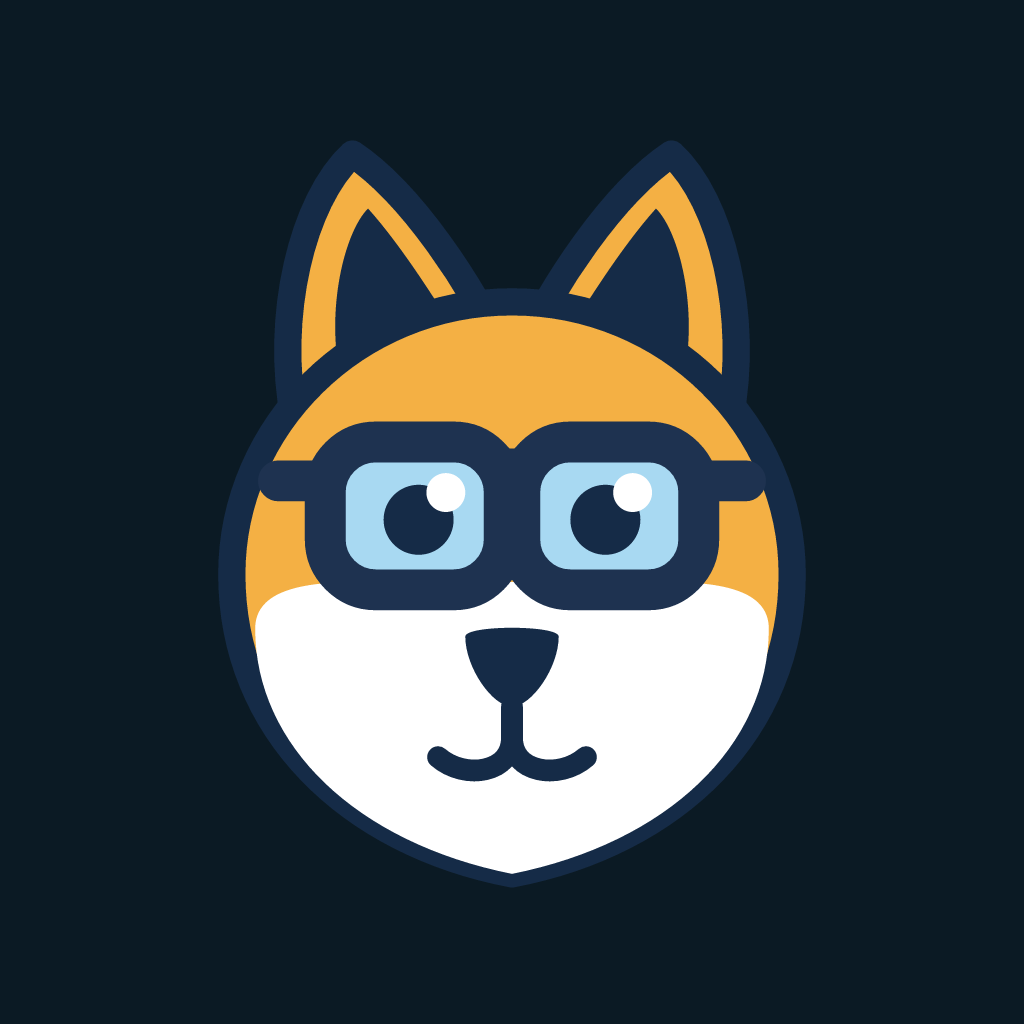
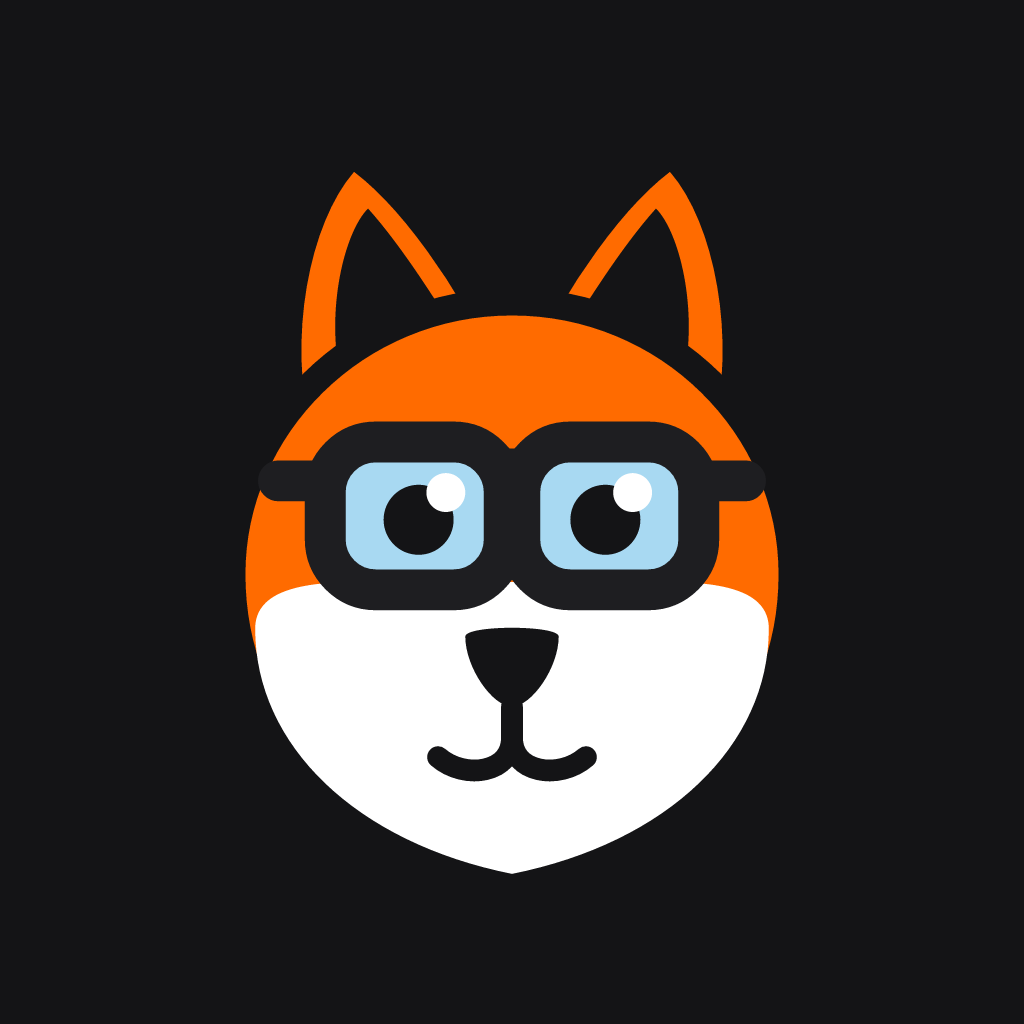
feat(brand): Ignition husky, orange fur on charcoal
Owner chose option B of three recolor mockups: fur #FF6B00 (the dark
theme's --gf-ember), charcoal linework #141416 and goggle frame
#1E1E21, lenses unchanged, so no navy survives in the mark.

brand.js stays the single definition. Two keys are renamed so the names
stop lying: BRAND.navy is now BRAND.ground (charcoal), and the wordmark
glyph tone `gold` is now `accent`. FIT takes the fur's orange on dark and
the text-safe #B13A09 on light; Logo.jsx reads var(--gf-ember-text).

generate-brand-assets.mjs rebuilt brand/, the favicons, PWA icons, the
OG image (red and orange glow in place of gold) and resources/.

Changed region(s): [[0.1875, 0.125, 0.8125, 0.8438], [0.4375, 0.8438, 0.5625, 0.875]]

diff --git a/src/lib/brand.js b/src/lib/brand.js
@@ -10,16 +10,21 @@
 // `dangerouslySetInnerHTML`. The phase 7 security pass recorded zero such
 // sinks in this codebase and that property is worth more than the brevity.
 
+// Ignition husky (owner choice "B", 2026-09-24): orange fur and charcoal
+// linework, so no navy survives in the mark. Fur is deliberately the same
+// value as the dark theme's --gf-ember; ground and surface are the charcoal
+// --gf-bg-primary / --gf-bg-surface. The lens stays sky blue so the pupils
+// read against it.
 export const BRAND = {
-  fur: '#F4B044',      // golden fur — deliberately the same value as --gf-gold
-  line: '#152B47',     // outline, ear interiors, nose, pupils
+  fur: '#FF6B00',      // Ignition orange, = --gf-ember (dark)
+  line: '#141416',     // outline, ear interiors, nose, pupils
   muzzle: '#FFFFFF',
   lens: '#A8D9F2',     // goggle glass
-  frame: '#1E3250',    // goggle frame, deep navy
-  navy: '#0B1A24',     // --gf-bg-primary, the app icon ground
-  surface: '#112532',  // --gf-bg-surface
-  gold: '#F4B044',     // --gf-gold
-  text: '#F2F5F7',     // --gf-text-primary
+  frame: '#1E1E21',    // goggle frame, charcoal
+  ground: '#141416',   // --gf-bg-primary, the app icon and splash ground
+  surface: '#1E1E21',  // --gf-bg-surface
+  gold: '#F4B044',     // --gf-gold, reward color (no longer used by the mark)
+  text: '#F5F5F4',     // --gf-text-primary
 };
 
 // Drawn on a 200x200 grid. Full detail: catchlights in the eyes, a two-stroke
@@ -112,17 +117,17 @@ export const WORDMARK_GLYPHS = [
     ],
   },
   {
-    x: 400, tone: 'gold', shapes: [
+    x: 400, tone: 'accent', shapes: [
       { t: 'path', d: 'M0,0 L65,0 L74,9 L74,25 L27,25 L27,40 L65,40 L65,65 L27,65 L27,100 L0,100 Z' },
     ],
   },
   {
-    x: 484, tone: 'gold', shapes: [
+    x: 484, tone: 'accent', shapes: [
       { t: 'path', d: 'M0,0 L27,0 L27,100 L0,100 Z' },
     ],
   },
   {
-    x: 521, tone: 'gold', shapes: [
+    x: 521, tone: 'accent', shapes: [
       { t: 'path', d: 'M9,0 L71,0 L80,9 L80,25 L53,25 L53,100 L27,100 L27,25 L0,25 L0,9 Z' },
     ],
   },
@@ -131,8 +136,10 @@ export const WORDMARK_GLYPHS = [
 // Gold as *text* fails on a light ground: #F4B044 measures 1.9:1 on white.
 // Same split the design system already applies to --gf-gold / --gf-gold-text.
 export const WORDMARK_TONES = {
-  dark: { text: BRAND.text, gold: BRAND.gold },
-  light: { text: BRAND.navy, gold: '#8A5A06' },
+  // FIT takes the accent: the fur's orange on dark, and the text-safe
+  // --gf-ember-text on light (the raw orange is ~2.9:1 on white).
+  dark: { text: BRAND.text, accent: BRAND.fur },
+  light: { text: BRAND.ground, accent: '#B13A09' },
 };
 
 // Serialise a shape set to SVG markup. Used by the asset generator and by the

diff --git a/src/components/brand/Logo.jsx b/src/components/brand/Logo.jsx
@@ -62,16 +62,16 @@ export function Mascot({ size = 64, detail, title, className = '', ...rest }) {
  * to a system stack mid-load, and it is identical on every platform.
  *
  * `tone` defaults to `auto`, which paints from the palette rather than from
- * literal hex: GAME takes `currentColor` and FIT takes `--gf-gold-text`. That
+ * literal hex: GAME takes `currentColor` and FIT takes `--gf-ember-text`. That
  * matters because the app toggles `.dark` on <html> and both tokens flip.
  * Pinning tone="dark" here would put #F2F5F7 lettering on the #EDF2F5 light
  * background at 1.02:1 — the mark would simply disappear. Pass an explicit
  * tone only when the mark sits on a ground that does *not* follow the theme,
- * such as inside a fixed-navy card.
+ * such as inside a fixed-charcoal card.
  */
 export function Wordmark({ height = 28, tone = 'auto', title, className = '', ...rest }) {
   const colours = tone === 'auto'
-    ? { text: 'currentColor', gold: 'var(--gf-gold-text)' }
+    ? { text: 'currentColor', accent: 'var(--gf-ember-text)' }
     : (WORDMARK_TONES[tone] ?? WORDMARK_TONES.dark);
   const width = Math.round((height * WORDMARK_WIDTH) / WORDMARK_HEIGHT);
 
